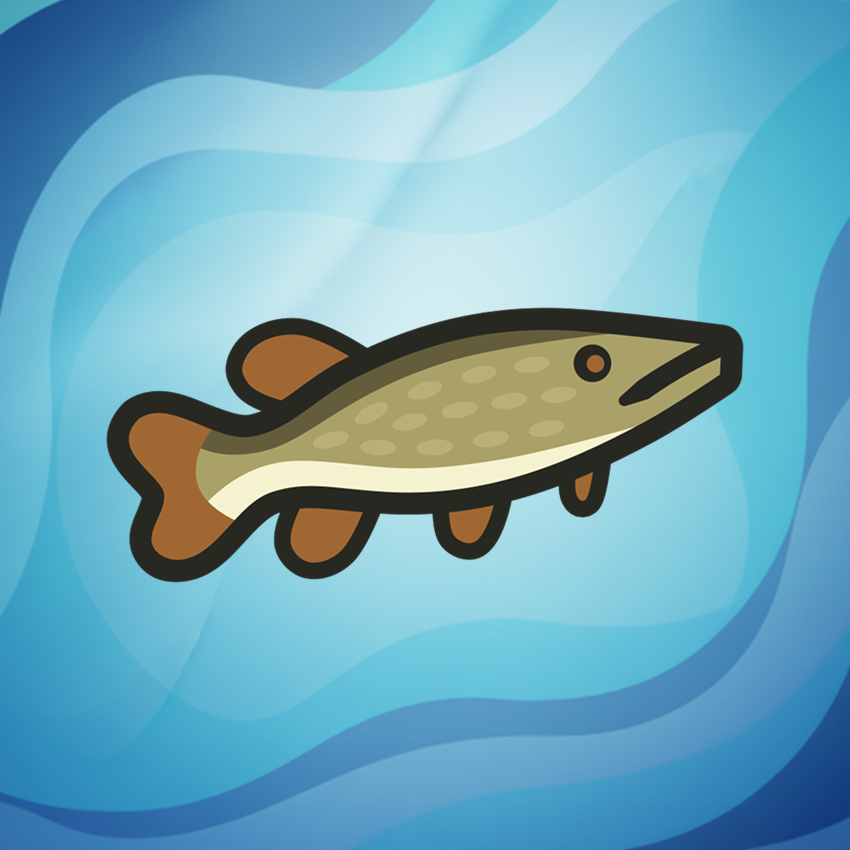
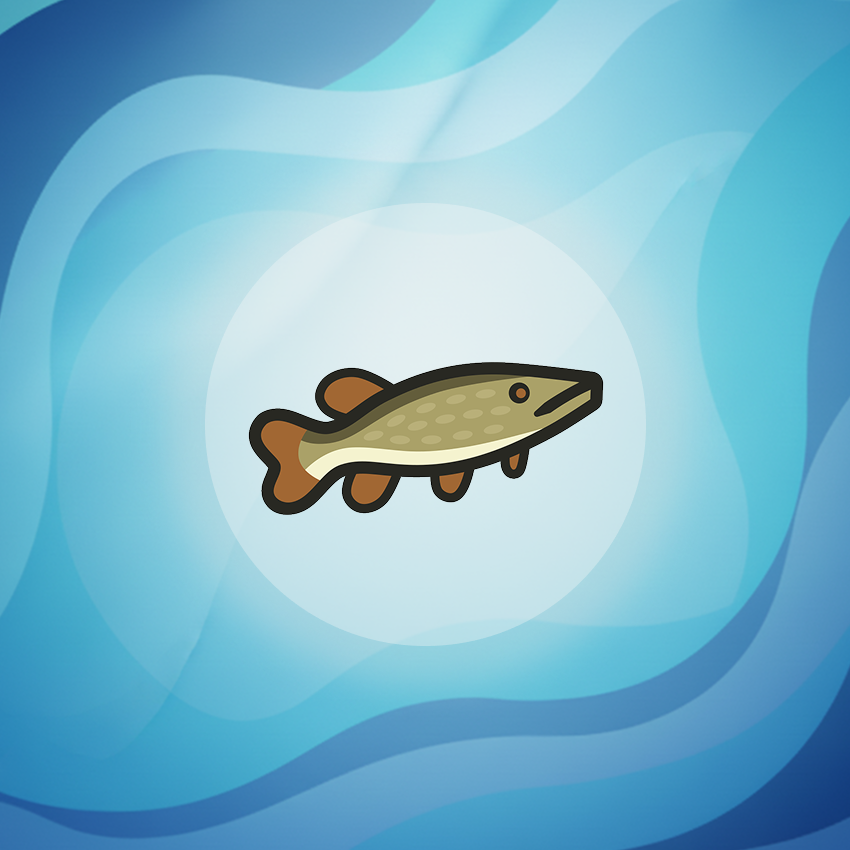
update featured post image, modify how featured post images display

Changed region(s): [[0.1224, 0.2141, 0.8871, 0.7953]]

diff --git a/assets/css/custom.css b/assets/css/custom.css
@@ -18,3 +18,7 @@
 .logo:hover svg {
   transform: scale(1.08);
 }
+
+.thumbnail_card {
+  min-width: auto !important;
+}
